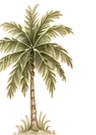
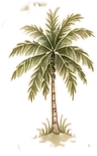
Map palms cut whole from the source art, with soft edges, instead of tight rectangles
The three palm decorations on the journey map were rectangular crops that sliced through crowns and trunks. They are re-cut from the original map along the outline of each tree, keyed off the paper and feathered, so nothing ends in a straight edge. Widths adjusted so each tree stays the size it was on the page.

Claude-Session: https://claude.ai/code/session_01GqK2ENqeRUwQmtgcSZFd9X

diff --git a/index.html b/index.html
@@ -919,9 +919,9 @@ html.has-lightbox{overflow:hidden}
       <svg class="map-rim" viewBox="0 0 100 100" preserveAspectRatio="none" aria-hidden="true"><polygon points="25.94,0.02 27.93,0.31 29.67,0.64 31.30,1.16 32.67,1.80 34.08,2.43 35.48,3.06 36.87,3.72 37.89,4.64 38.84,5.58 39.74,6.54 40.66,7.49 41.48,8.40 42.41,9.41 43.48,10.38 44.61,11.31 45.39,12.26 46.10,13.25 46.71,14.25 47.54,15.11 48.70,15.87 49.85,16.65 51.05,17.39 52.35,18.08 53.67,18.75 54.96,19.46 56.16,20.21 57.25,21.02 58.28,21.85 59.45,22.69 60.68,23.50 61.95,24.29 63.26,25.07 64.60,25.74 65.96,26.39 67.32,27.04 68.64,27.72 69.90,28.43 71.11,29.13 72.39,29.85 73.66,30.56 74.96,31.26 76.31,31.92 77.71,32.55 79.16,33.22 80.62,33.89 82.04,34.57 83.41,35.29 84.74,36.04 85.92,36.80 87.10,37.55 88.32,38.29 89.58,39.00 90.90,39.67 91.76,40.65 92.63,41.63 93.45,42.62 94.19,43.64 94.84,44.66 95.46,45.70 96.09,46.74 96.46,47.77 96.86,48.79 97.23,49.82 97.49,50.84 97.70,51.85 98.03,52.86 98.43,53.86 98.74,54.87 98.88,55.90 98.88,56.93 98.77,57.93 98.66,58.95 98.70,59.97 98.88,60.98 99.15,62.00 99.46,63.01 99.76,64.03 99.89,65.07 99.82,66.08 99.58,67.09 99.23,68.10 98.88,69.11 98.61,70.12 98.47,71.13 98.55,72.15 98.77,73.16 98.93,74.18 99.02,75.19 99.08,76.21 99.13,77.23 99.18,78.25 99.08,79.24 98.87,80.25 98.70,81.27 98.57,82.28 98.47,83.30 98.38,84.32 98.31,85.34 98.03,86.30 97.50,87.28 96.98,88.26 96.42,89.24 95.78,90.19 95.07,91.13 94.32,92.06 93.60,93.02 92.32,93.80 91.04,94.56 89.69,95.28 88.25,95.96 86.78,96.62 85.48,97.25 83.92,97.61 82.30,98.11 80.72,98.66 79.12,99.17 77.46,99.61 75.81,100.00 74.08,99.66 72.28,99.35 70.46,99.09 68.60,98.89 66.72,98.73 64.85,98.57 62.80,98.31 61.40,97.49 60.24,96.73 59.13,95.94 58.07,95.12 57.04,94.29 56.03,93.45 55.06,92.58 54.16,91.69 53.23,90.81 52.26,89.95 51.20,89.12 50.07,88.32 48.89,87.54 47.73,86.75 46.63,85.93 45.96,84.96 45.33,84.00 44.73,83.04 44.14,82.07 43.58,81.10 43.03,80.12 42.44,79.16 41.74,78.20 40.92,77.27 40.03,76.35 39.17,75.43 38.40,74.49 37.69,73.53 36.96,72.57 36.14,71.64 35.06,70.85 34.00,70.05 33.01,69.22 32.06,68.38 31.11,67.54 30.15,66.70 29.21,65.86 28.25,65.02 27.31,64.13 26.42,63.22 25.53,62.30 24.71,61.37 24.01,60.41 23.40,59.43 22.87,58.42 22.36,57.41 21.77,56.42 21.04,55.47 20.19,54.54 19.30,53.63 18.41,52.71 17.55,51.79 16.75,50.86 16.20,49.84 15.95,48.81 15.70,47.78 15.39,46.76 15.03,45.75 14.62,44.74 14.17,43.73 13.79,42.72 13.51,41.71 13.26,40.70 13.06,39.68 12.92,38.66 12.83,37.63 12.75,36.61 12.41,35.57 11.82,34.54 11.15,33.53 10.40,32.53 9.33,31.68 8.26,30.83 7.28,29.96 6.38,29.06 5.50,28.15 4.57,27.25 3.55,26.39 2.46,25.53 1.63,24.53 0.91,23.51 0.35,22.46 0.23,21.38 0.53,20.37 0.75,19.35 0.84,18.39 1.30,17.41 1.68,16.36 2.03,15.32 2.74,14.36 3.85,13.47 5.02,12.61 6.20,11.75 7.52,11.14 9.15,10.64 10.74,10.10 12.29,9.52 13.83,8.94 15.38,8.36 16.96,7.81 18.11,7.15 19.07,6.26 20.06,5.39 21.06,4.52 22.04,3.65 23.00,2.77 23.92,1.88 24.83,0.99" fill="none" stroke="#9B8B57" stroke-opacity=".85" stroke-width="1" vector-effect="non-scaling-stroke"/></svg>
       <h2 class="map-title"><span class="eyebrow mt-eyebrow">03 — The schedule</span><span class="mt-our">Our</span><span class="mt-script">Bali Weekend</span><span class="mt-date">August 27 – 28, 2027</span><i class="mt-rule"></i></h2>
       <img class="mp mp-deco" data-in=".30,.40" data-src="assets/map-gate.webp" style="left:15.99%;top:35.39%;width:32.12%" alt="" loading="lazy" decoding="async">
-      <img class="mp mp-deco" data-in=".17,.24" data-src="assets/map-palms1.webp" style="left:50.63%;top:25.30%;width:8.82%" alt="" loading="lazy" decoding="async">
-      <img class="mp mp-deco" data-in=".44,.52" data-src="assets/map-palm2.webp" style="left:24.43%;top:50.32%;width:12.09%" alt="" loading="lazy" decoding="async">
-      <img class="mp mp-deco" data-in=".70,.78" data-src="assets/map-palms3.webp" style="left:41.81%;top:74.48%;width:11.96%" alt="" loading="lazy" decoding="async">
+      <img class="mp mp-deco" data-in=".17,.24" data-src="assets/map-palms1.webp" style="left:50.63%;top:25.30%;width:11.4%" alt="" loading="lazy" decoding="async">
+      <img class="mp mp-deco" data-in=".44,.52" data-src="assets/map-palm2.webp" style="left:24.43%;top:50.32%;width:9.5%" alt="" loading="lazy" decoding="async">
+      <img class="mp mp-deco" data-in=".70,.78" data-src="assets/map-palms3.webp" style="left:41.81%;top:74.48%;width:7.4%" alt="" loading="lazy" decoding="async">
       <img class="mp mp-deco" data-in=".47,.56" data-src="assets/map-compass.webp" style="left:83.38%;top:48.05%;width:16.62%" alt="" loading="lazy" decoding="async">
       <svg class="map-path" viewBox="0 0 794 1407" aria-hidden="true">
         <defs>
